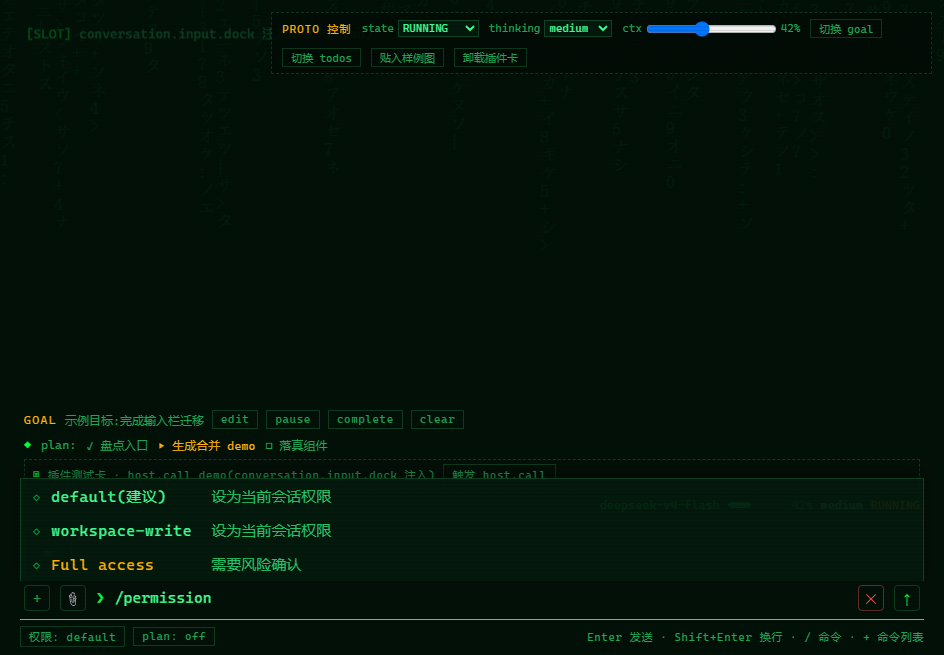
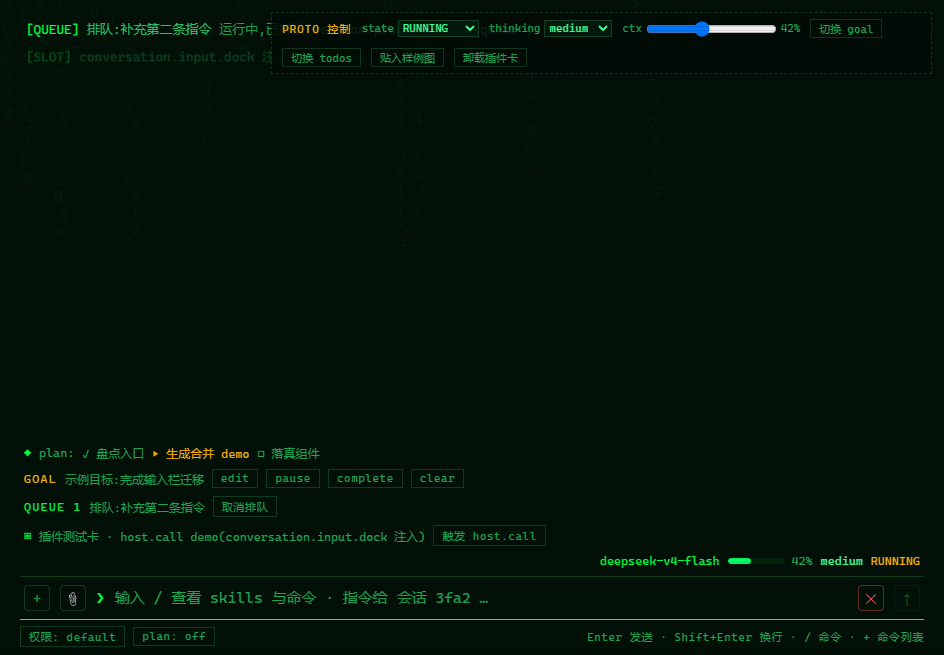
ui-prototype(input-bar): 纠正 conversation.input.dock 理解(§1.3)——停靠排整体
- 误解纠正:dock 不是独立插件注入区域,而是 composer 上方停靠排整体;
  官方条目(todo order0 / goal / queue[有排队才渲染])与插件条目同排纵向停靠、按 order 升序
- demo 结构改为 .dock = tododock + goalbar + queuedock + plugcard,
  删除独立虚线 SLOT 占位框;插件卡 = 排里一行(同一条条视觉语言)
- 补 queue 官方条目:运行中发送排队 → QUEUE 行出现(取消排队/中断即消)
- 截图全量重跑(idle/running/dock-injected 等 11 态)

diff --git a/ui-prototype/input-bar/input-bar-proto.html b/ui-prototype/input-bar/input-bar-proto.html
@@ -22,6 +22,11 @@
     · 删除 .mi-title(◆ 会话标题);模型菜单锚定 #mModel 正上方;
     · 权限 chip / plan 开关移入输入框下方 .subline 行;
     · Full access 风险确认改为屏幕中心偏左的模态弹窗(知情勾选 + 取消/启用)。
+  理解纠正(2026-08-20,据 ui-component-inventory.md §1.3):
+    · conversation.input.dock 不是「独立插件注入区域」,而是「composer 上方的停靠排」整体——
+      官方条目(todo 任务条 order0 / goal 目标条 / queue 队列行[有排队才渲染])与插件条目
+      同排纵向停靠、按 order 升序;插件卡注入 = 排里多一行(同一条条视觉语言),不是虚线占位框。
+      demo 结构:.dock = tododock + goalbar + queuedock + plugcard(插件面 SlotAnchor 的渲染结果)。
 -->
 <html lang="zh-CN">
 <head>
@@ -82,20 +87,19 @@ body { background: var(--bg); color: var(--text-primary); font-family: var(--fon
 .demo-line b { color: var(--accent); font-weight: 400; }
 @keyframes blockIn { from { opacity: 0; transform: translateY(6px); } to { opacity: 1; transform: none; } }
 
-/* ===== A7#4 GoalBar / A7#3 TodoDock / A7#2 dock 槽(缺失入口桩,同令牌)===== */
-.goalbar { display: flex; align-items: center; gap: 8px; padding: 2px 4px 6px; font-size: 12px; color: var(--text-tertiary); }
+/* ===== conversation.input.dock 停靠排(todo/goal/queue 官方条目 + 插件卡同排,同一条条语言)===== */
+.goalbar, .tododock, .queuedock, .plugcard { display: flex; align-items: center; gap: 8px; padding: 2px 4px 6px; font-size: 12px; color: var(--text-tertiary); }
 .goalbar .g-tag { color: var(--warning); letter-spacing: 0.1em; }
-.goalbar button, .dockslot button, .subline .chip {
+.queuedock .q-tag { color: var(--accent); letter-spacing: 0.1em; }
+.plugcard .p-tag { color: var(--accent); }
+.goalbar button, .plugcard button, .queuedock button, .subline .chip {
   background: none; border: 1px solid var(--border); color: var(--text-tertiary); cursor: pointer;
   font-family: var(--font); font-size: 11px; letter-spacing: 0.06em; padding: 2px 8px; transition: color 0.15s, border-color 0.15s;
 }
-.goalbar button:hover, .dockslot button:hover, .subline .chip:hover { color: var(--accent); border-color: rgba(61,255,143,0.5); }
+.goalbar button:hover, .plugcard button:hover, .queuedock button:hover, .subline .chip:hover { color: var(--accent); border-color: rgba(61,255,143,0.5); }
 .goalbar input { background: none; border: none; border-bottom: 1px solid var(--border); outline: none;
   color: var(--text-primary); font-family: var(--font); font-size: 12px; width: 220px; caret-color: var(--accent); }
-.tododock { display: flex; align-items: center; gap: 10px; padding: 2px 4px 6px; font-size: 12px; color: var(--text-tertiary); }
 .tododock .t-dot { color: var(--accent); } .tododock .t-doing { color: var(--warning); }
-.dockslot { border: 1px dashed var(--border); margin: 0 4px 6px; padding: 4px 8px; font-size: 11px;
-  color: var(--text-tertiary); letter-spacing: 0.06em; display: flex; align-items: center; gap: 8px; }
 
 /* ===== A7#12 AttachmentRail(输入盒顶部)===== */
 .rail { display: flex; gap: 8px; padding: 8px 4px 0; }
@@ -234,12 +238,15 @@ body { background: var(--bg); color: var(--text-primary); font-family: var(--fon
     <div class="inputbar">
       <!-- 弹层(.palette / .cmd-panel / .model-menu)由 JS 渲染 -->
 
-      <!-- A7#4 GoalBar(zion-add) -->
-      <div class="goalbar" id="goalbar"></div>
-      <!-- A7#3 TodoDockSeat(plan strip) -->
-      <div class="tododock" id="tododock"></div>
-      <!-- A7#2 conversation.input.dock 插件槽(平时完全隐藏,插件注入内容才出现) -->
-      <div class="dockslot" id="dockslot" hidden></div>
+      <!-- conversation.input.dock 停靠排(ui-component-inventory §1.3):
+           官方条目(todo 任务条 order0 / goal 目标条 / queue 队列行[有排队才渲染])
+           与插件条目同排纵向停靠;插件卡注入 = 排里多一行,不是独立区域 -->
+      <div class="dock" id="dock">
+        <div class="tododock" id="tododock"></div>
+        <div class="goalbar" id="goalbar"></div>
+        <div class="queuedock" id="queuedock" hidden></div>
+        <div class="plugcard" id="plugcard" hidden></div>
+      </div>
       <!-- .micro(§13 视觉;ctx 占用 = #mCtxbar 胶囊条唯一展示;模型名 = A7#7 可点入口) -->
       <div class="micro">
         <span class="mi-cluster">
@@ -325,7 +332,7 @@ const state = {
   sessionState: 'READY', sessionTitle: '会话 3fa2',
   model: 'deepseek-v4-flash', contextWindow: 204800, ctxInput: 86016, thinkingLevel: 'medium',
   permission: 'default', planOn: false,
-  goal: null, todosOn: true, images: [],
+  goal: null, todosOn: true, images: [], queued: [],
 };
 let menuOpen = null;   // 'cmd' | 'model' | 'perm' | null
 let riskFrom = null;   // 'palette' | 'chip' —— Full access 确认来源
@@ -592,6 +599,7 @@ function send() {
   } else if (m) {
     logLine(`<b>[CMD]</b> /${m[1]}${m[2] ? ' ' + esc(m[2]) : ''} <span style="color:var(--text-tertiary)">→ session.command(demo)</span>`);
   } else if (busy()) {
+    state.queued.push(value); // 排队 → dock 停靠排出 queue 行(有排队才渲染,§1.3)
     logLine(`<b>[QUEUE]</b> ${esc(value)} <span style="color:var(--text-tertiary)">运行中,已排队(session.prompt parts,'queue')</span>`);
   } else {
     logLine(`<b>[PROMPT]</b> ${esc(value)}${state.images.length ? ` <span style="color:var(--text-tertiary)">(+${state.images.length} 图)</span>` : ''}`);
@@ -603,6 +611,7 @@ function send() {
 function abort() {
   logLine('<b style="color:var(--warning)">[INT]</b> 停止(session.cancel,demo)');
   state.sessionState = 'READY';
+  state.queued = []; // 中断清空队列 → queue 行消失
   $('ctlState').value = 'READY';
   renderAll();
 }
@@ -696,16 +705,27 @@ $('permChip').addEventListener('click', () => { menuOpen = menuOpen === 'perm' ?
 $('planChip').addEventListener('click', () => { state.planOn = !state.planOn; if (!state.planOn) logLine('<b>[CMD]</b> /plan off <span style="color:var(--text-tertiary)">→ session.command(demo)</span>'); renderAll(); });
 stopBtn.addEventListener('click', abort);
 goBtn.addEventListener('click', send);
-/* A7#2 插件槽:平时完全隐藏;仅「注入插件卡」后出现注入内容,卸载即隐 */
+/* dock 停靠排 §1.3:插件卡 = 排里一行(与 todo/goal/queue 同一条条语言),不是独立区域 */
 let dockInjected = false;
 function renderDock() {
-  const d = $('dockslot');
-  d.hidden = !dockInjected;
+  // 插件面(SlotAnchor 注入的条目,平时无注册即无行)
+  const p = $('plugcard');
+  p.hidden = !dockInjected;
   if (dockInjected)
-    d.innerHTML = '<span style="color:var(--accent)">▣</span><span>插件测试卡 · host.call demo(conversation.input.dock 注入)</span><button id="dockFire">触发 host.call</button>';
+    p.innerHTML = '<span class="p-tag">▣</span><span>插件测试卡 · host.call demo(conversation.input.dock 注入)</span><button id="dockFire">触发 host.call</button>';
+  // 官方面 queue 条目(有排队才渲染)
+  const q = $('queuedock');
+  q.hidden = state.queued.length === 0;
+  if (state.queued.length) {
+    q.innerHTML = `<span class="q-tag">QUEUE ${state.queued.length}</span><span></span><button id="qCancel">取消排队</button>`;
+    q.children[1].textContent = state.queued[0];
+  }
 }
-$('dockslot').addEventListener('click', (e) => {
+$('plugcard').addEventListener('click', (e) => {
   if (e.target.id === 'dockFire') logLine('<b>[SLOT]</b> 插件卡 host.call(demo)');
+});
+$('queuedock').addEventListener('click', (e) => {
+  if (e.target.id === 'qCancel') { state.queued = []; logLine('<b>[QUEUE]</b> 取消排队(updateQueue,demo)'); renderAll(); }
 });
 
 /* 点击弹层外关闭 */
